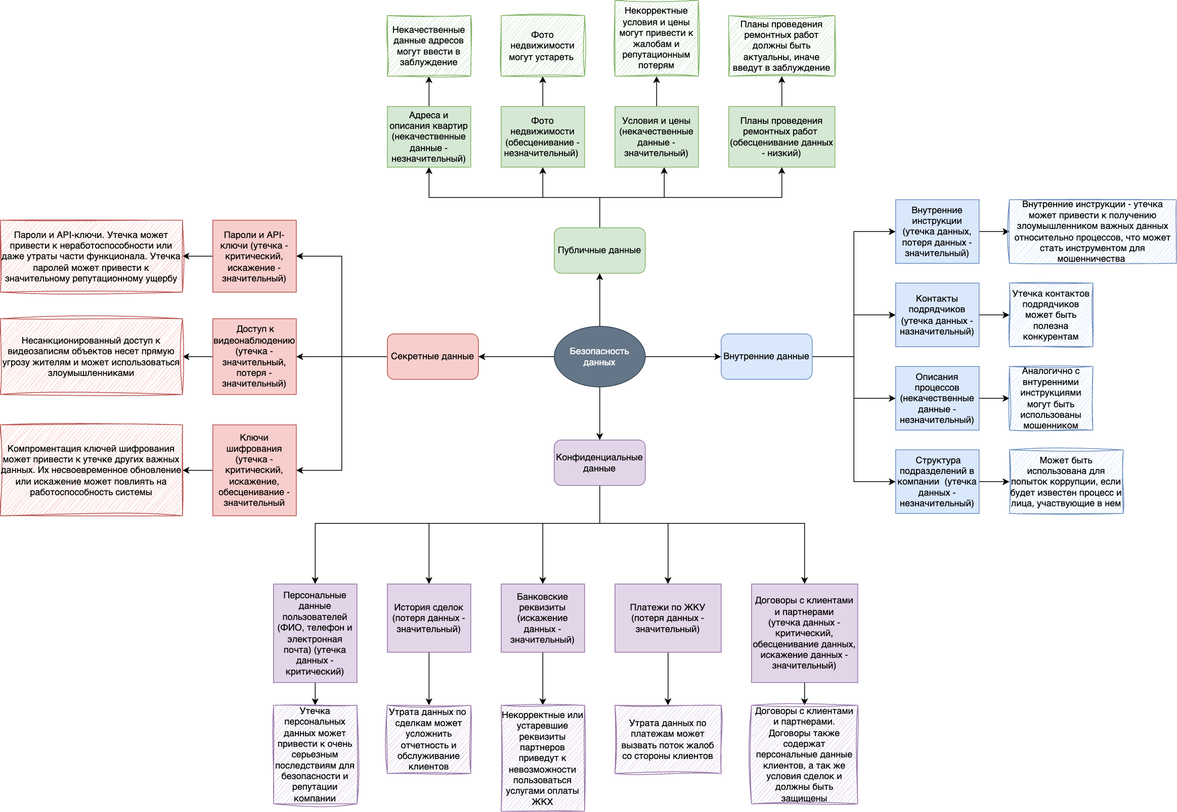
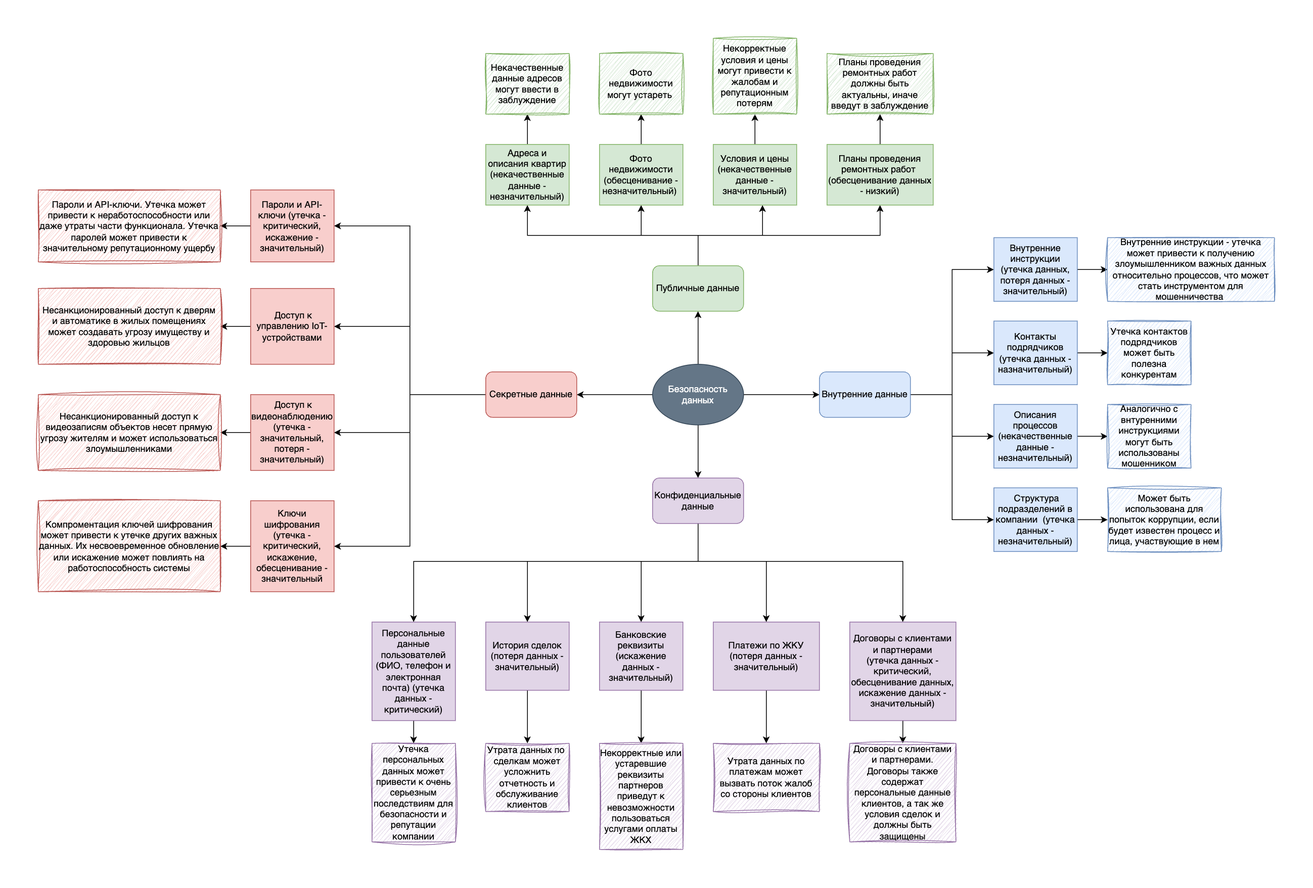
Выполняю задание 2

diff --git a/Task2/IB.md b/Task2/IB.md
@@ -1,0 +1,91 @@
+# Информационная безопасность: Оценка текущего состояния
+
+Выбранные разделы
+
+### I. Управление доступом
+
+Раздел важен так как есть множество сотрудников, которые имеют доступ к критическим системам и сервисам, а также к чувствительным данным.
+Необходимо обеспечить многофакторную аутентификацию и управление учётными записями.
+
+### II. Безопасность данных
+
+Компания хранит персональные данные клиентов, включая Ф.И.О и контактные данные требующие защиты.
+
+### III. Защита инфраструктуры
+
+Раздел важен для защиты от внешних угроз, таких как DDoS-атаки, и обеспечения безопасности сетевой инфраструктуры.
+
+### IV. Управление инцидентами
+
+Раздел важен для обеспечения готовности к реагированию на инциденты безопасности и минимизации их последствий.
+
+### V. Специфические аспекты
+### V.2. Управление оборудованием и физической безопасностью
+
+Компания имеет собственное оборудование, которое требует физической безопасности и контроля доступа.
+
+
+## Чек-лист оценки текущего состояния информационной безопасности
+
+| №                                                            | Вопрос                                                                                                                                      | Да/нет | Комментарий                                                                                                             |
+|--------------------------------------------------------------|---------------------------------------------------------------------------------------------------------------------------------------------|--------|-------------------------------------------------------------------------------------------------------------------------|
+| **I. Управление доступом**                                   |                                                                                                                                             |        | 
+| 1                                                            | Используется ли многофакторная аутентификация (MFA) для доступа к критическим системам и сервисам?                                          | нет    | В схеме не указано, будем считать, что нет                                                                              |
+| 2                                                            | Настроены ли требования к сложности паролей и их регулярное обновление?                                                                     | нет    | В схеме не указано, будем считать, что нет                                                                              |
+| 3                                                            | Проводится ли аудит и пересмотр учётных записей с повышенными привилегиями на регулярной основе?                                            | нет    |                                                                                                                         |
+| 4                                                            | Реализован ли принцип минимальных привилегий при назначении ролей и прав доступа?                                                           | нет    |                                                                                                                         |
+| 5                                                            | Автоматически ли удаляются или деактивируются учётные записи после увольнения или изменения должности сотрудников?                          | нет    |                                                                                                                         |
+| 6                                                            | Ведётся ли журналирование всех операций доступа к системам и данным? Кто имеет доступ к журналам?                                           | нет    |                                                                                                                         |
+| 7                                                            | Используются ли механизмы контроля доступа на основе атрибутов для повышения гибкости управления доступом?                                  | нет    | не указано, при это есть active directory, где это можно настроить                                                      |
+| 8                                                            | Используются ли системы аутентификации пользователей для доступа к системам?                                                                | да     |                                                                                                                         |
+| 9                                                            | Созданы ли замкнутые контуры для подсистем, работающих с чувствительными данными?                                                           | да     | есть контуры для BI-аналитики и бухгалтерии                                                                             |
+| 10                                                           | Ограничен ли доступ к системам из внешних источников?                                                                                       | нет    | firewall только для внешних клиентов                                                                                    |
+| 11                                                           | Ведётся ли единый реестр учётных записей?                                                                                                   | нет    | Есть 2 разных Active directory для бухгалтерии и менеджеров                                                             |
+| 12                                                           | Используются ли средства управления учётными записями на базе единого реестра?                                                              | да     | Используется Active directory                                                                                           |
+| 13                                                           | Применяются ли средства для отзыва прав доступа?                                                                                            | нет    | Не указано, требует уточнения                                                                                           |
+| 14                                                           | Используются ли средства централизованного контроля доступа?                                                                                | да     | Active Directory                                                                                                        |
+| **II. Безопасность данных**                                  |                                                                                                                                             |        |
+| 1                                                            | Разработана ли политика классификации данных, и актуализируется ли она в соответствии с действующим законодательством?                      | нет    | требует актуализации                                                                                                    |
+| 2                                                            | Используется ли шифрование на уровне базы данных, файловой системы и при передаче данных по сети?                                           | нет    | требует уточнения                                                                                                       |
+| 3                                                            | Реализованы ли механизмы управления ключами шифрования?                                                                                     | нет    | требует уточнения                                                                                                       |
+| 4                                                            | Проводится ли регулярное резервное копирование данных? Хранятся ли резервные копии в защищённых хранилищах?                                 | да     | для всех баз данных выполняется резервное копирование данных на глубину, которая необходима для восстановления данных.  |
+| 5                                                            | Выполняется ли регулярное тестирование процесса восстановления данных из резервных копий?                                                   | нет    | требует уточнения                                                                                                       |
+| 6                                                            | Ограничен ли доступ к резервным копиям данных, и зашифрованы ли они?                                                                        | нет    | требует уточнения                                                                                                       |
+| 7                                                            | Ведётся ли учёт персональных данных, и применяются ли специальные процедуры обработки и хранения для различных типов данных?                | нет    | внутренние потоки данных между IT-продуктами контролируются не системно                                                 |
+| 8                                                            | Осуществляется ли мониторинг доступа к данным на основе их классификации? Используются ли метки безопасности для маркировки данных?         | нет    |                                                                                                                         |
+| 9                                                            | Разработаны ли процессы и системы Data Governance для управления данными?                                                                   | нет    |                                                                                                                         |
+| 10                                                           | Реализованы ли системы или процессы безопасного уничтожения данных?                                                                         | нет    |                                                                                                                         |
+| 11                                                           | Используются ли системы или процессы контроля целостности данных?                                                                           | нет    |                                                                                                                         |
+| 12                                                           | Реализованы ли системы или процессы контроля сохранности данных?                                                                            | нет    |                                                                                                                         |
+| 13                                                           | Применяются ли средства или процессы анонимизации данных?                                                                                   | нет    | стоит внедрить для передачи данных внешним партнерам                                                                    |
+| 14                                                           | Разработана ли инструкция по процессу восстановления данных?                                                                                | да     | для всех баз данных выполняется резервное копирование данных на глубину, которая необходима для восстановления данных.  |
+| **III. Защита инфраструктуры**                               |                                                                                                                                             |        |
+| 1                                                            | Используется ли межсетевой экран для ограничения входящего и исходящего трафика?                                                            | да     | доступ в систему для внешних пользователей (клиентов и собственников) осуществляется через межсетевой экран (firewall). |
+| 2                                                            | Реализована ли сегментация сети на логические зоны (DMZ, корпоративная сеть, гостевая сеть) для ограничения доступа к критическим ресурсам? | нет    |                                                                                                                         |
+| 3                                                            | Используются ли IDS/IPS-системы для обнаружения и предотвращения сетевых атак?                                                              | нет    |                                                                                                                         |
+| 4                                                            | Настроен ли мониторинг сетевого трафика на предмет аномалий и возможных атак, например, DDoS?                                               | нет    |                                                                                                                         |
+| 5                                                            | Проводится ли регулярное сканирование уязвимостей операционных систем, приложений и сетевых устройств?                                      | нет    |                                                                                                                         |
+| 6                                                            | Установлены ли на серверах и рабочих станциях антивирусные программы и системы EDR?                                                         | нет    |                                                                                                                         |
+| 7                                                            | Отключены ли неиспользуемые службы и порты на серверах, рабочих станциях и сетевом оборудовании?                                            | нет    |                                                                                                                         |
+| 8                                                            | Используются ли механизмы контроля целостности системных файлов? Ведётся ли журналирование доступа к системным ресурсам?                    | нет    |                                                                                                                         |
+| 9                                                            | Проводятся ли автоматизированные сканирования облачных инфраструктур на соответствие рекомендациям безопасности?                            | нет    |                                                                                                                         |
+| 10                                                           | Реализовано ли автоматическое обновление сигнатур защиты от вредоносных программ?                                                           | нет    |                                                                                                                         |
+| 11                                                           | Осуществляется ли фильтрация трафика между сетевыми сегментами?                                                                             | нет    |                                                                                                                         |
+| 12                                                           | Используются ли средства для контроля периметра доступа?                                                                                    | нет    |                                                                                                                         |
+| **IV. Управление инцидентами**                               |                                                                                                                                             |        |
+| 1                                                            | Используется ли система мониторинга безопасности (SIEM) для корреляции событий и анализа аномалий в режиме реального времени?               | нет    |                                                                                                                         |
+| 2                                                            | Настроены ли автоматические оповещения об инцидентах и подозрительной активности (например, попытках несанкционированного доступа)?         | нет    |                                                                                                                         |
+| 3                                                            | Разработан ли план реагирования на инциденты, включающий анализ, эскалацию и восстановление системы? Проводится ли обучение сотрудников?    | нет    |                                                                                                                         |
+| 4                                                            | Проводятся ли симуляции инцидентов (учения) для проверки готовности сотрудников к реагированию на кибератаки?                               | нет    |                                                                                                                         |
+| 5                                                            | Ведётся ли статистика по всем зарегистрированным инцидентам и используются ли результаты анализа для корректировки политики безопасности?   | нет    |                                                                                                                         |
+| 6                                                            | Как часто проводятся внутренние и внешние аудиты безопасности? Обновляются ли политики и процедуры на основе результатов этих аудитов?      | нет    |                                                                                                                         |
+| **V. Специфические аспекты**                                 |                                                                                                                                             |        |
+| **V.1. Общие вопросы**                                       |                                                                                                                                             |        |
+| 1                                                            | Используется ли система управления мобильными устройствами (MDM) для контроля доступа к корпоративным данным и приложениям?                 | нет    | требуется настроить для операторов и команды разработки                                                                 |
+| 2                                                            | Настроены ли VPN и шифрование для безопасного удалённого доступа к корпоративным ресурсам?                                                  | нет    | требуется настроить для операторов и команды разработки                                                                 |
+| 3                                                            | Проводится ли автоматическое выявление и ограничение использования незарегистрированных или неавторизованных устройств в сети?              | нет    |                                                                                                                         |
+| 4                                                            | Настроены ли политики автоматического резервного копирования в облачной среде? Контролируется ли доступ к резервным копиям?                 | да     | есть резервные копии баз данных                                                                                         |
+| **V.2. Управление оборудованием и физической безопасностью** |                                                                                                                                             |        |
+| 1                                                            | Используются ли системы контроля доступа — биометрия, СКУД — в серверных помещениях?                                                        | нет    | у компании есть собственное оборудование, требуется система контроля доступа                                            |
+| 2                                                            | Ведётся ли инвентаризация всего оборудования? Контролируется ли его состояние с использованием систем управления активами?                  | да     | требует уточнения, но вероятнее всего да, так как компания большая и скорее всего имеет средства учета                  |
+| 3                                                            | Используются ли безопасные методы удаления данных перед утилизацией оборудования или передачей в другие подразделения?                      | нет    |                                                                                                                         |
